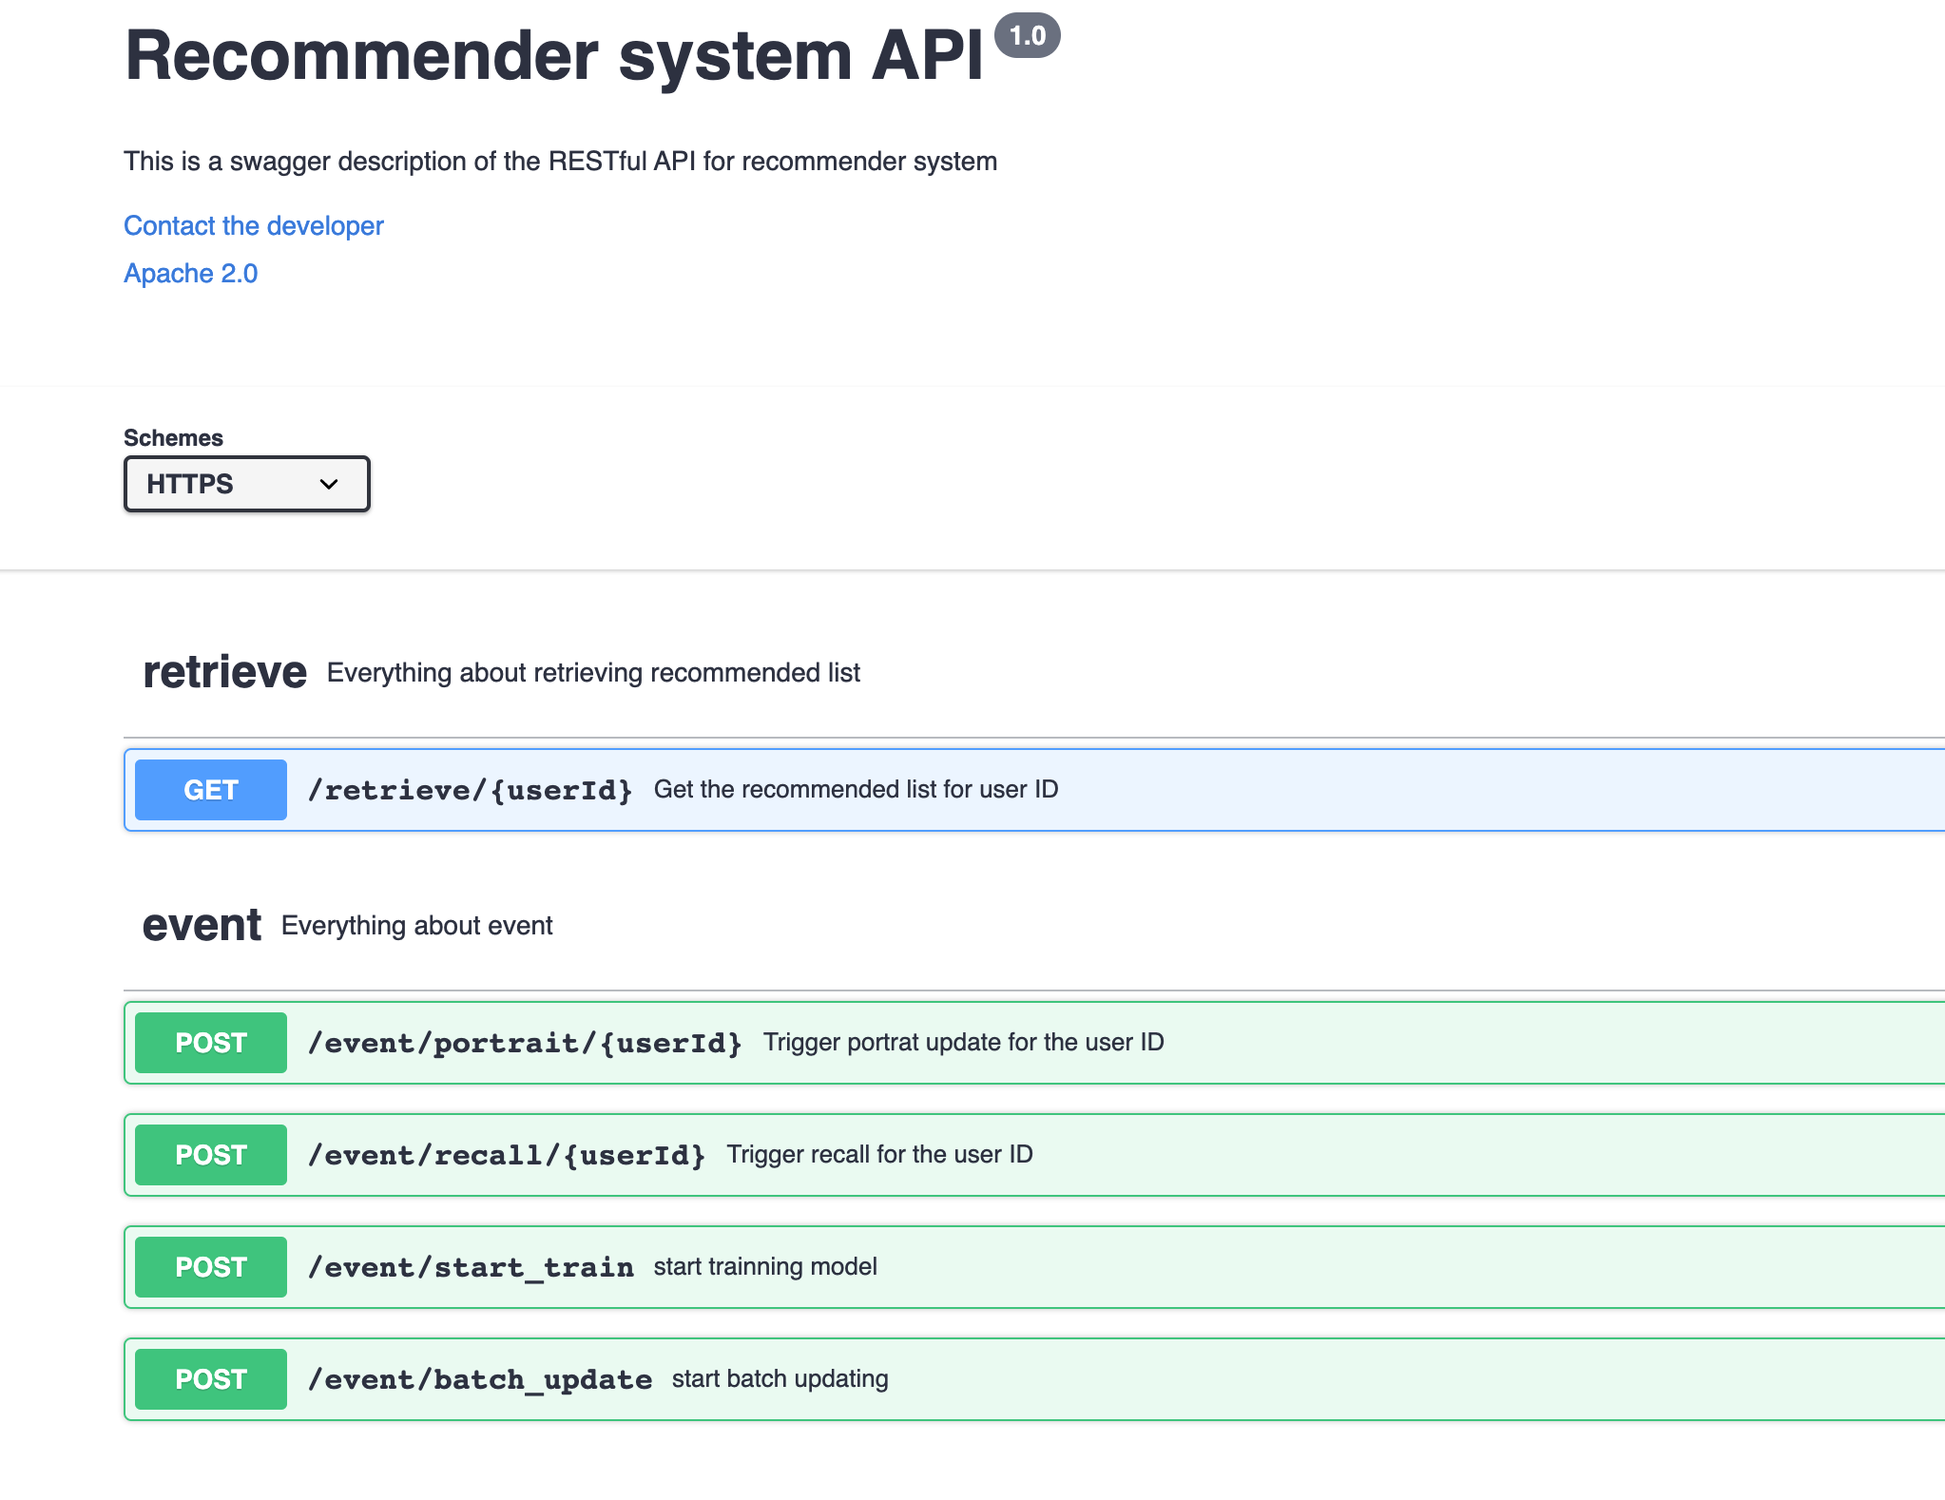
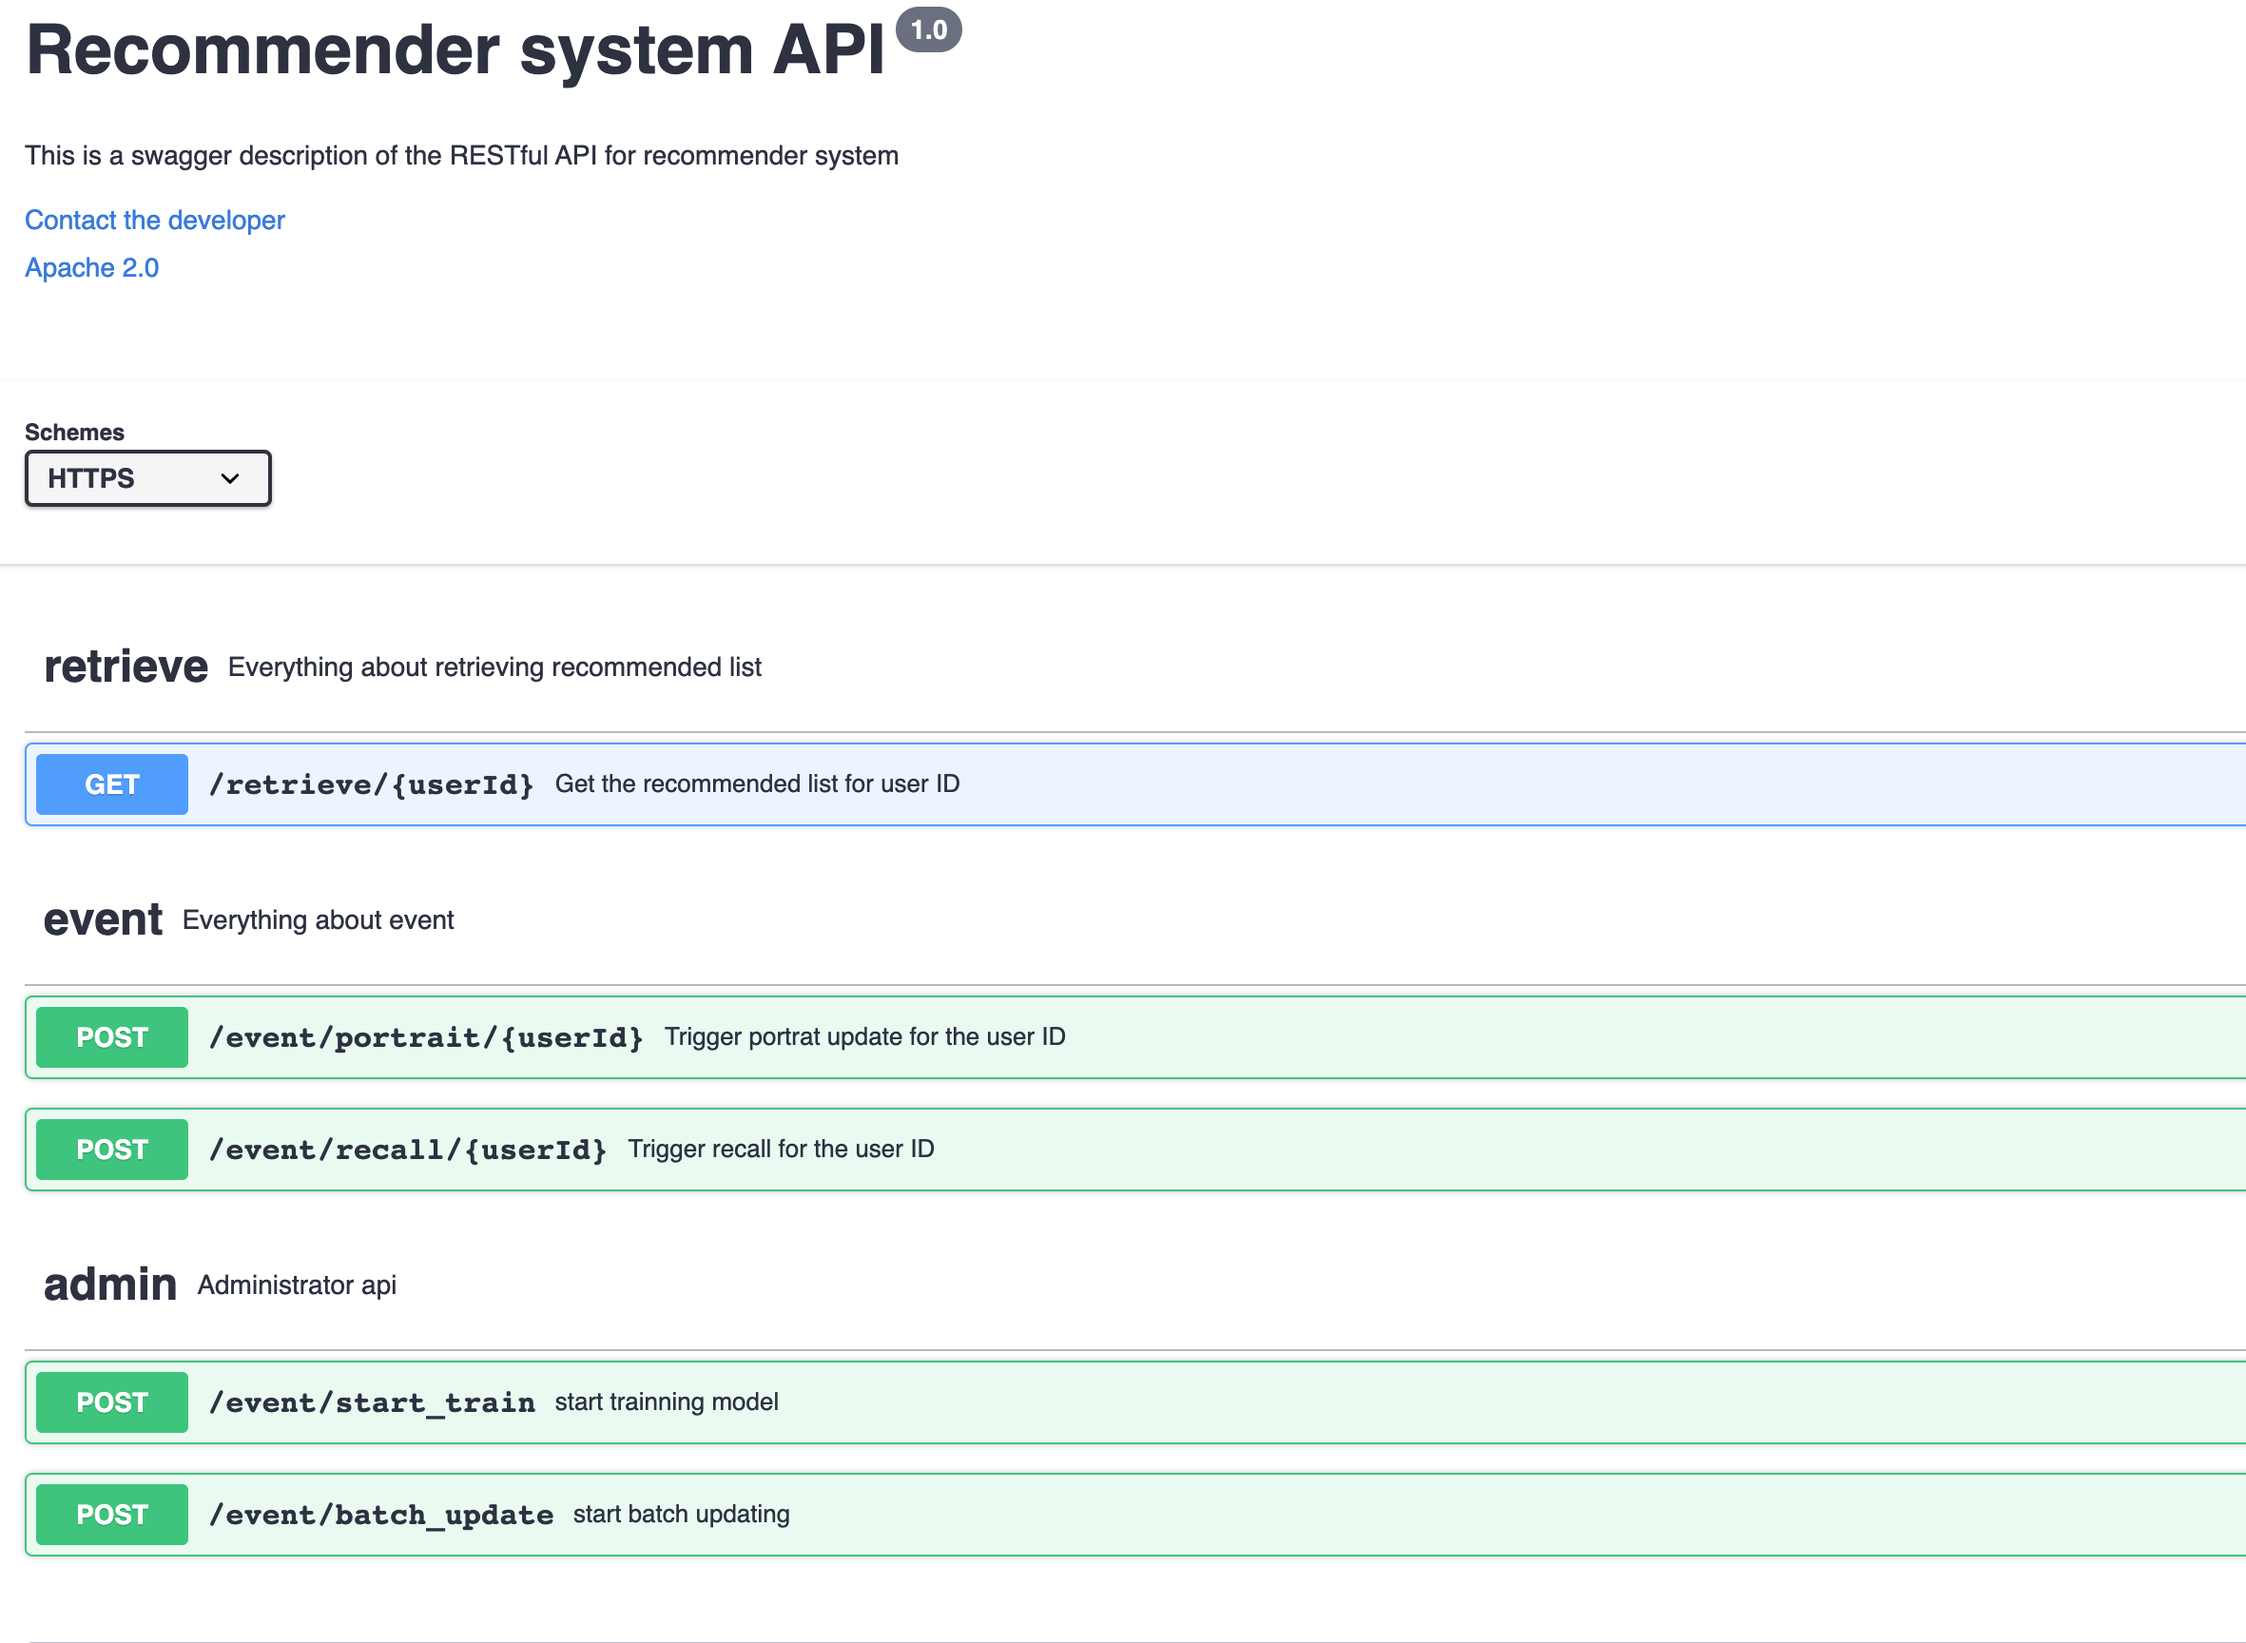
refine api overview

diff --git a/docs/deploy/_index.en.md b/docs/deploy/_index.en.md
@@ -14,5 +14,22 @@ You’ll need the following steps:
 
 ## API Overview 
 
+There are three types of API
+- retrieve 
+  
+  `/retrieve/{userId}` - get the recommended item list for a user
+  
+- event
+  
+   `/event/portrait/{userId}` - trigger portrait update for a user
+
+   `/event/recall/{userId}`  - trigger recall for a user 
+
+- admin
+   
+   `/event/start_train` - trigger offline training job
+  
+   `/event/batch_update` - trigger offline batch job, re-generating recommended item list for all users
+
 ![RS API overview](/images/rs-api-overview.png)
 
